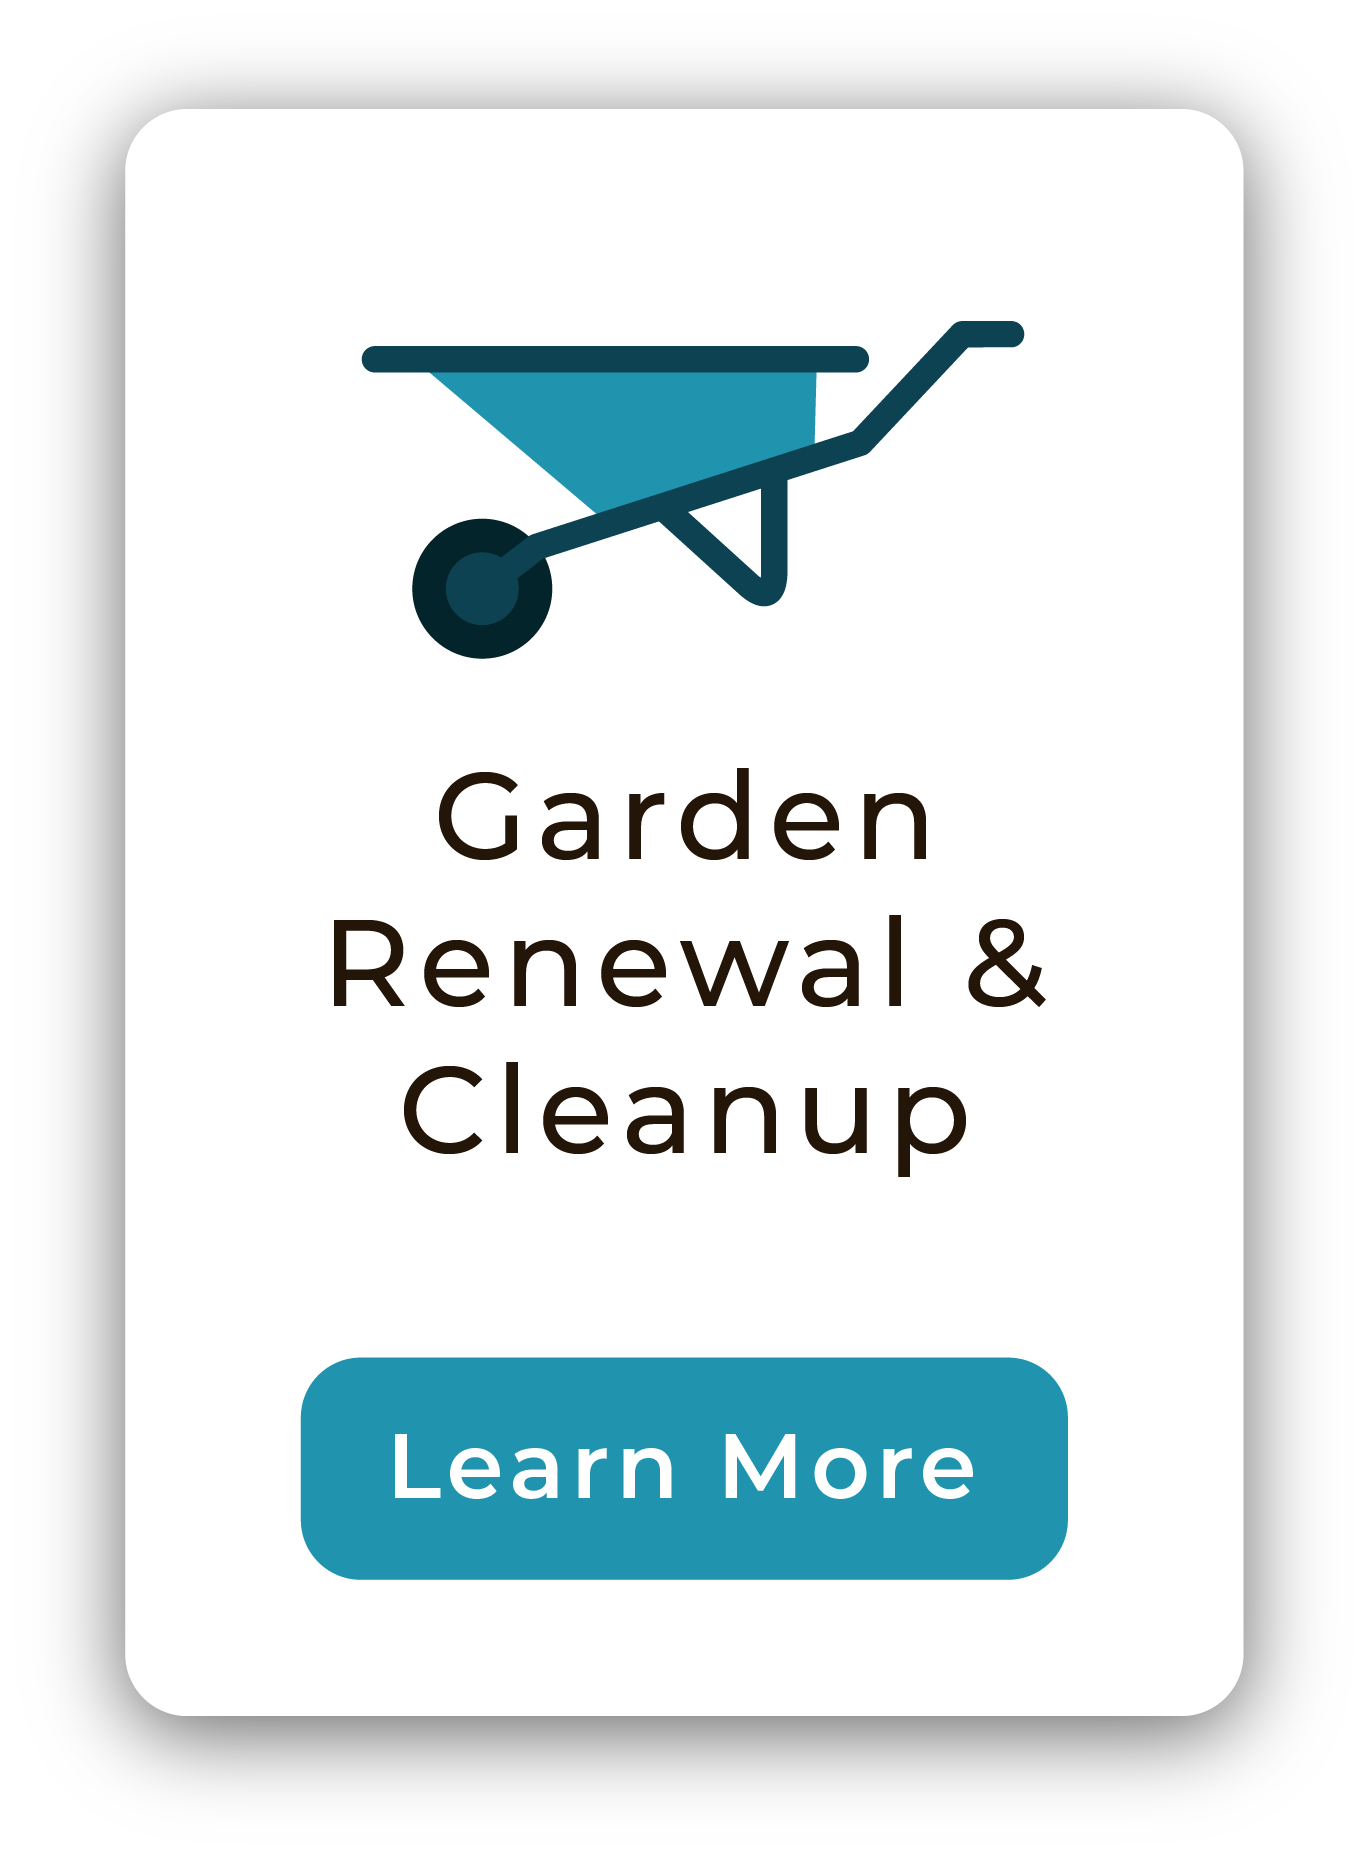
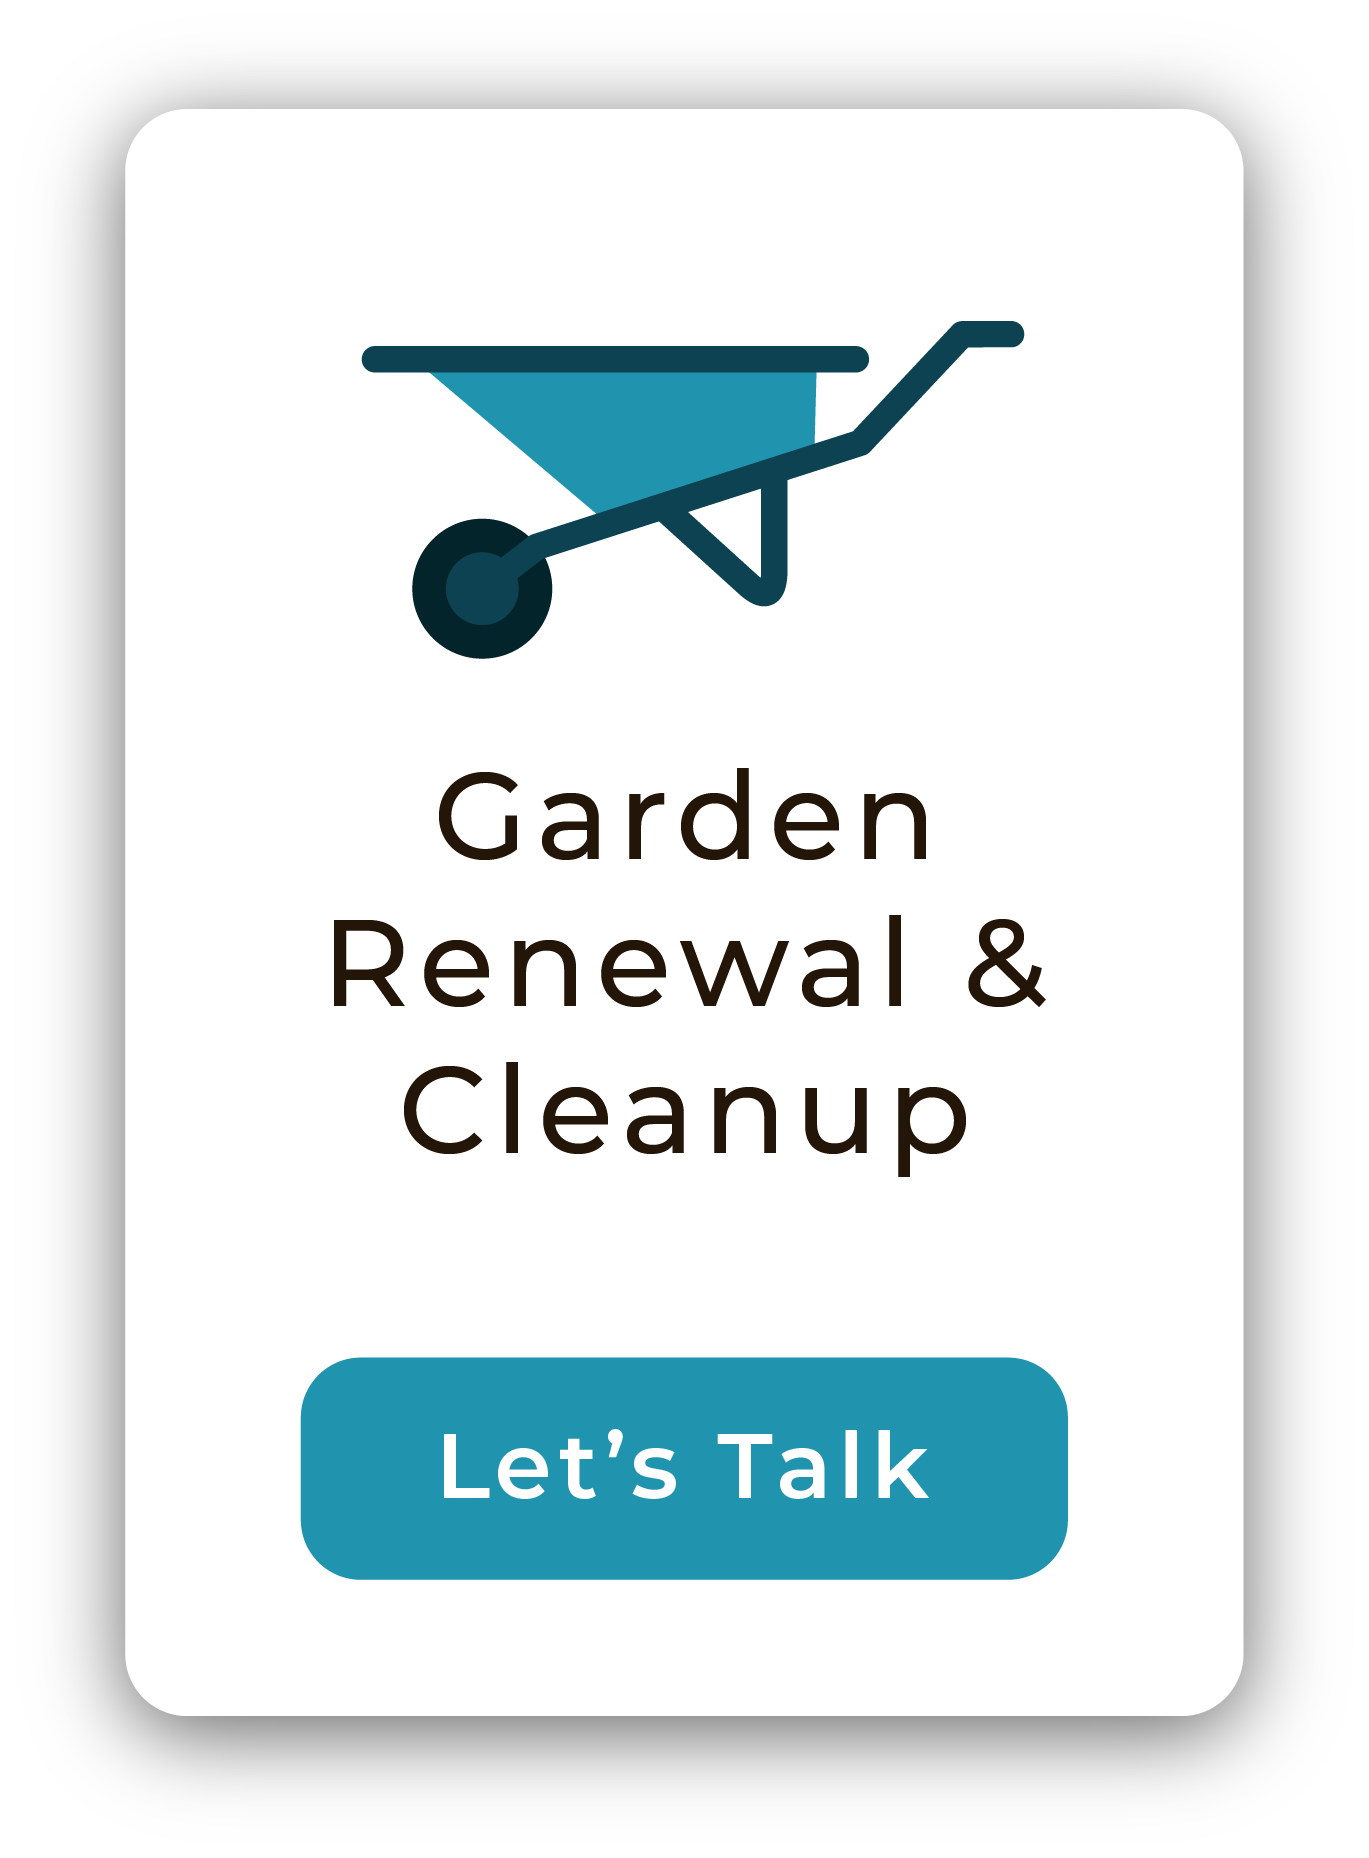
added contact to buttons

Changed region(s): [[0.5215, 0.7492, 0.7056, 0.8116], [0.2761, 0.7492, 0.4909, 0.8116]]

diff --git a/gardening.html b/gardening.html
@@ -52,26 +52,38 @@
 
       <div id="value-propositions">
         <div class="value-prop-container">
-          <a href="contact.html"><img src="./ArtAssets/elements/CallToAction1.png" alt=""></a>
+          <a target="_blank" href="https://us18.list-manage.com/contact-form?u=fc81299908c9a33a63dbf5b05&form_id=4a6595251c73a41082b6a61cb5387301">            
+            <img src="./ArtAssets/elements/CallToAction1.png" alt="">
+          </a>
         </div>
         <div class="value-prop-container">
-          <a href="contact.html"><img src="./ArtAssets/elements/CallToAction2.png" alt=""></a>
+          <a target="_blank" href="https://us18.list-manage.com/contact-form?u=fc81299908c9a33a63dbf5b05&form_id=4a6595251c73a41082b6a61cb5387301">
+            <img src="./ArtAssets/elements/CallToAction2.png" alt="">
+          </a>
         </div>
         <div class="value-prop-container">
-          <a href="contact.html"><img src="./ArtAssets/elements/CallToAction3.png" alt=""></a>
+          <a target="_blank" href="https://us18.list-manage.com/contact-form?u=fc81299908c9a33a63dbf5b05&form_id=4a6595251c73a41082b6a61cb5387301">
+            <img src="./ArtAssets/elements/CallToAction3.png" alt="">
+          </a>
         </div>
       </div>
 
 
       <div id="value-propositions-mobile">
         <div class="value-prop-container-mobile">
-          <a href="contact.html"><img src="./ArtAssets/elements/CallTo ActionMobile1.png" alt=""></a>
+          <a target="_blank" href="https://us18.list-manage.com/contact-form?u=fc81299908c9a33a63dbf5b05&form_id=4a6595251c73a41082b6a61cb5387301">
+            <img src="./ArtAssets/elements/CallToActionMobile1.png" alt="">
+          </a>
         </div>
         <div class="value-prop-container-mobile">
-          <a href="contact.html"><img src="./ArtAssets/elements/CallTo ActionMobile2.png" alt=""></a>
+          <a target="_blank" href="https://us18.list-manage.com/contact-form?u=fc81299908c9a33a63dbf5b05&form_id=4a6595251c73a41082b6a61cb5387301">
+            <img src="./ArtAssets/elements/CallToActionMobile2.png" alt="">
+          </a>
         </div>
         <div class="value-prop-container-mobile">
-          <a href="contact.html"><img src="./ArtAssets/elements/CallTo ActionMobile3.png" alt=""></a>
+          <a target="_blank" href="https://us18.list-manage.com/contact-form?u=fc81299908c9a33a63dbf5b05&form_id=4a6595251c73a41082b6a61cb5387301">
+            <img src="./ArtAssets/elements/CallToActionMobile3.png" alt="">
+          </a>
         </div>
       </div>
 

diff --git a/index.js b/index.js
@@ -86,10 +86,10 @@ document.addEventListener("DOMContentLoaded", function() {
 
 
 
-// Function to handle click event and redirect to contact page
 function redirectToContactPage() {
-    function handleClick() {
-        window.location.href = "contact.html";
+    function handleClick(event) {
+        event.preventDefault(); // Prevents the default behavior of the link
+        window.open("https://us18.list-manage.com/contact-form?u=fc81299908c9a33a63dbf5b05&form_id=4a6595251c73a41082b6a61cb5387301", "_blank");
     }
 
     var elements = document.querySelectorAll('.set-up-consultation, .set-up-consultation-dropdown');
@@ -98,6 +98,7 @@ function redirectToContactPage() {
         element.addEventListener('click', handleClick);
     });
 }
+
 
 // Function to scroll to the top of the page
 function scrollToTop() {

diff --git a/style.css b/style.css
@@ -292,13 +292,13 @@ footer div {
 /*Mobile */
 @media only screen and (max-width: 850px) {
     #moose-footer-gardening {
-        bottom: -535%;
+        bottom: -1850PX;
     }
 }
 /*Mobile */
 @media only screen and (max-width: 500px) {
     #moose-footer-gardening {
-        bottom: -1840px;
+        bottom: -1880px;
     }
 }
 #moose-footer-contact {
